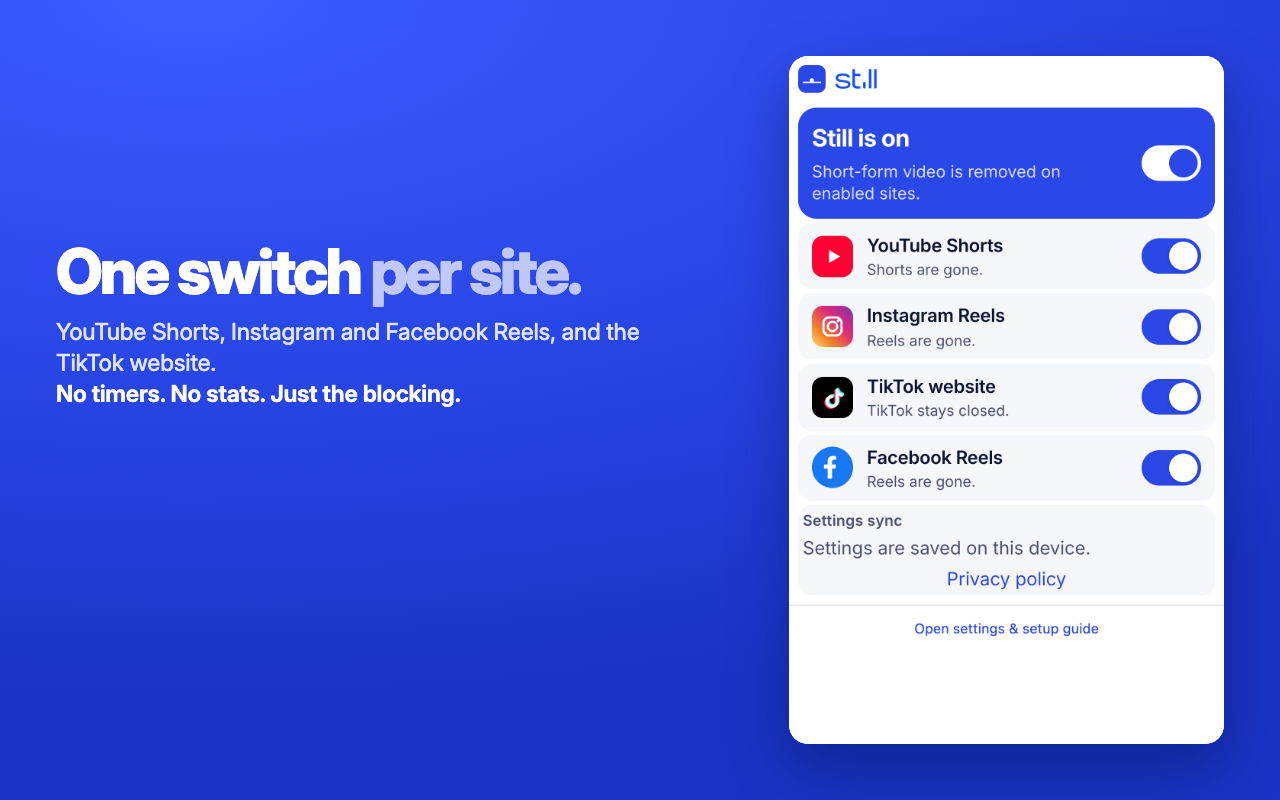
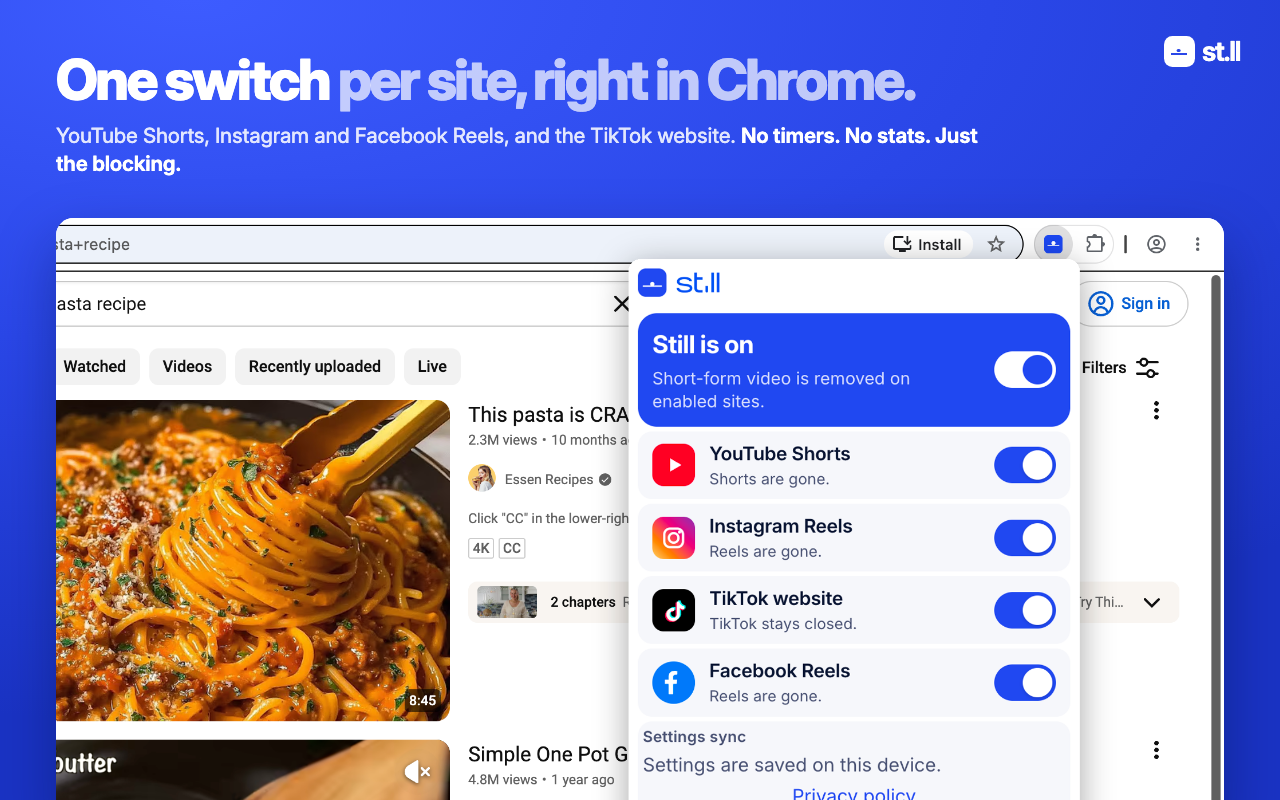
Show Still's popup in a real Chrome window, and pin every showcase image to its store's size
capture-chrome-window.mjs pins Still to the toolbar, opens the popup with
chrome.action.openPopup(), and lays the popup's own pixels (DevTools) over the
window capture. showcase-frames.spec.ts checks each committed image's exact store
size and that no headline makes a forbidden claim.

diff --git a/tests/playwright/showcase-frames.spec.ts b/tests/playwright/showcase-frames.spec.ts
@@ -1,0 +1,50 @@
+import { test, expect } from "@playwright/test";
+import { existsSync, readFileSync } from "node:fs";
+import { dirname, resolve } from "node:path";
+import { fileURLToPath } from "node:url";
+
+// Contract test for the 2.1 showcase images (docs/release/screenshots/source/frames/frames.json):
+// every committed store image has its store's exact pixel size, and no headline makes a claim the
+// accuracy rules in docs/release/store-listing-copy.md forbid. Rendering stays a manual step
+// (render-frames.mjs pulls live captures), so this reads the committed files rather than re-rendering.
+
+const HERE = dirname(fileURLToPath(import.meta.url));
+const FRAMES = resolve(HERE, "../../docs/release/screenshots/source/frames");
+const STORE_READY = resolve(HERE, "../../docs/release/screenshots/store-ready");
+const { canvases, frames } = JSON.parse(readFileSync(resolve(FRAMES, "frames.json"), "utf8"));
+
+// The sizes each store asks for (Apple: 6.9" iPhone, 13" iPad and the largest Mac size; Chrome and
+// Firefox: 1280x800; Instagram: 4:5 feed and 9:16 story; Open Graph: 1200x630).
+const STORE_SIZES: Record<string, [number, number]> = {
+  chrome: [1280, 800], firefox: [1280, 800], iphone: [1320, 2868], ipad: [2064, 2752],
+  mac: [2880, 1800], ig: [1080, 1350], story: [1080, 1920], og: [1200, 630],
+};
+const BANNED = [/everywhere/i, /forever/i, /no tracking/i, /\bapps?\b.*\bblock/i];
+
+function dimensions(file: string): [number, number] {
+  const b = readFileSync(file);
+  if (b.readUInt32BE(0) === 0x89504e47) return [b.readUInt32BE(16), b.readUInt32BE(20)]; // PNG IHDR
+  for (let i = 2; i < b.length; ) { // JPEG: walk segments to the start-of-frame marker
+    const marker = b[i + 1], len = b.readUInt16BE(i + 2);
+    if (marker >= 0xc0 && marker <= 0xcf && marker !== 0xc4 && marker !== 0xc8 && marker !== 0xcc) return [b.readUInt16BE(i + 7), b.readUInt16BE(i + 5)];
+    i += 2 + len;
+  }
+  throw new Error(`no image size in ${file}`);
+}
+
+test("each canvas renders at its store's exact size", () => {
+  for (const [name, c] of Object.entries<{ w: number; h: number; scale: number }>(canvases)) {
+    expect([c.w * c.scale, c.h * c.scale], name).toEqual(STORE_SIZES[name]);
+  }
+});
+
+for (const f of frames.filter((x: { draft?: string }) => !x.draft)) {
+  test(`${f.id}: committed image has the store size and an accurate headline`, () => {
+    const c = canvases[f.canvas];
+    const file = resolve(STORE_READY, c.out, `${f.id}-${c.w * c.scale}x${c.h * c.scale}.${c.format}`);
+    expect(existsSync(file), file).toBe(true);
+    expect(dimensions(file)).toEqual(STORE_SIZES[f.canvas]);
+    const words = `${f.headline} ${f.subline ?? ""}`;
+    for (const rule of BANNED) expect(words, `${f.id} must not say ${rule}`).not.toMatch(rule);
+  });
+}
